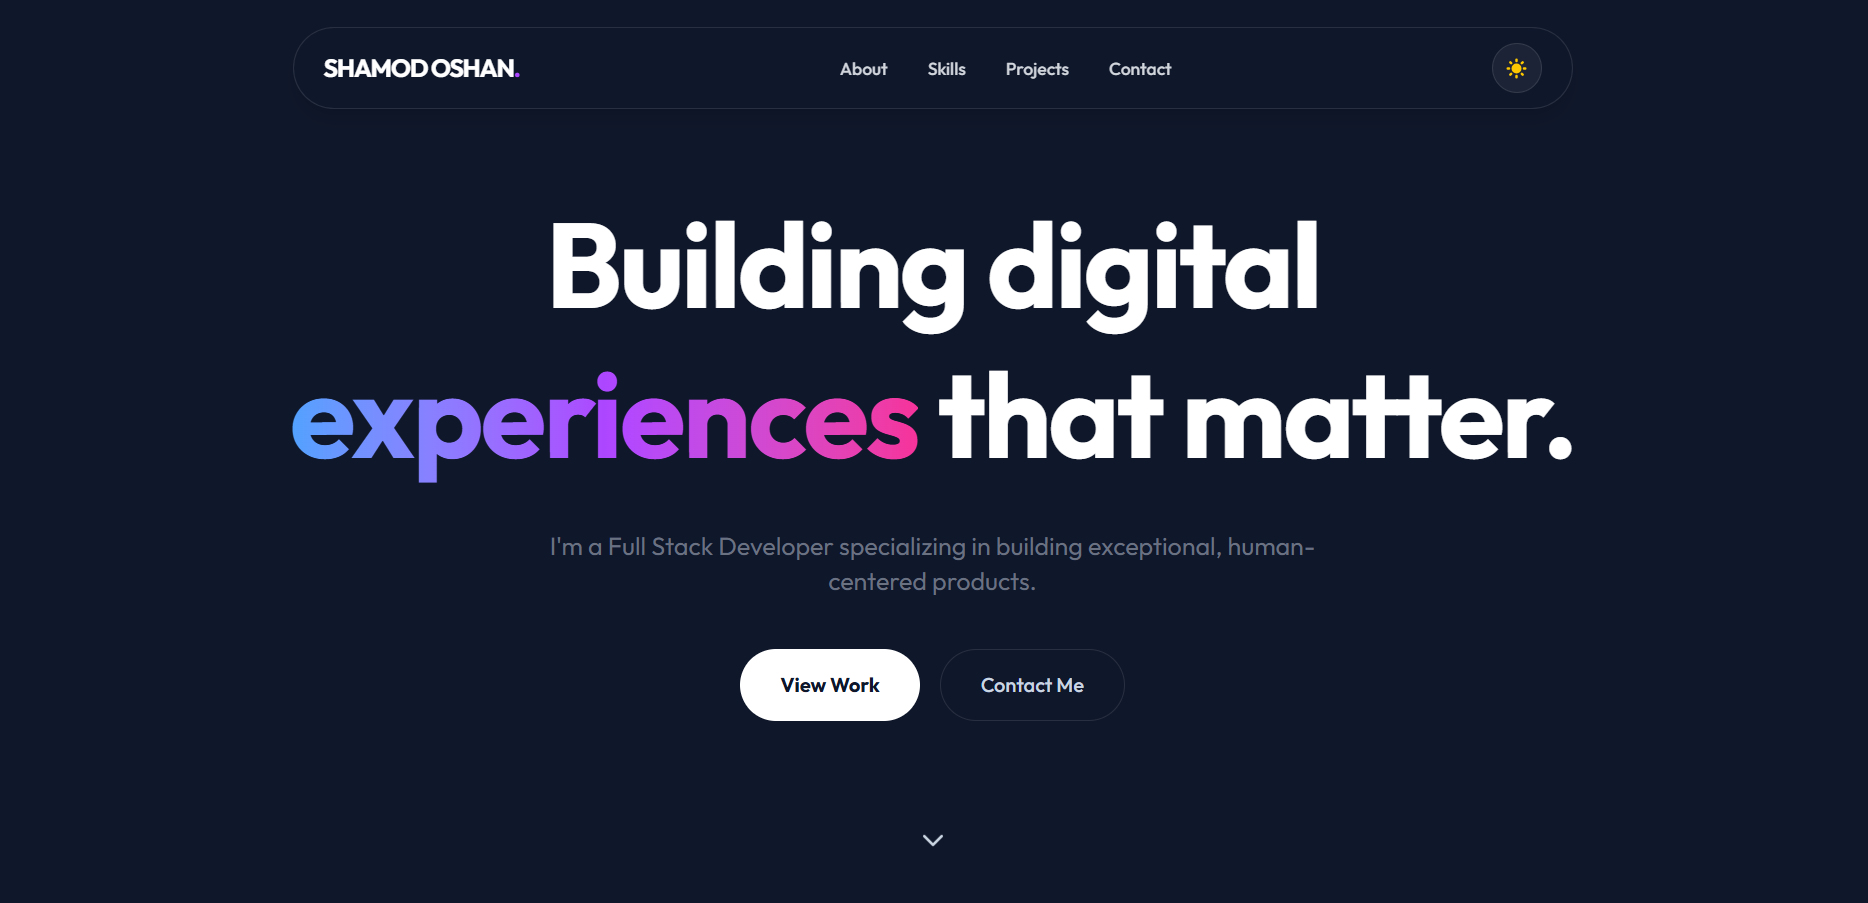
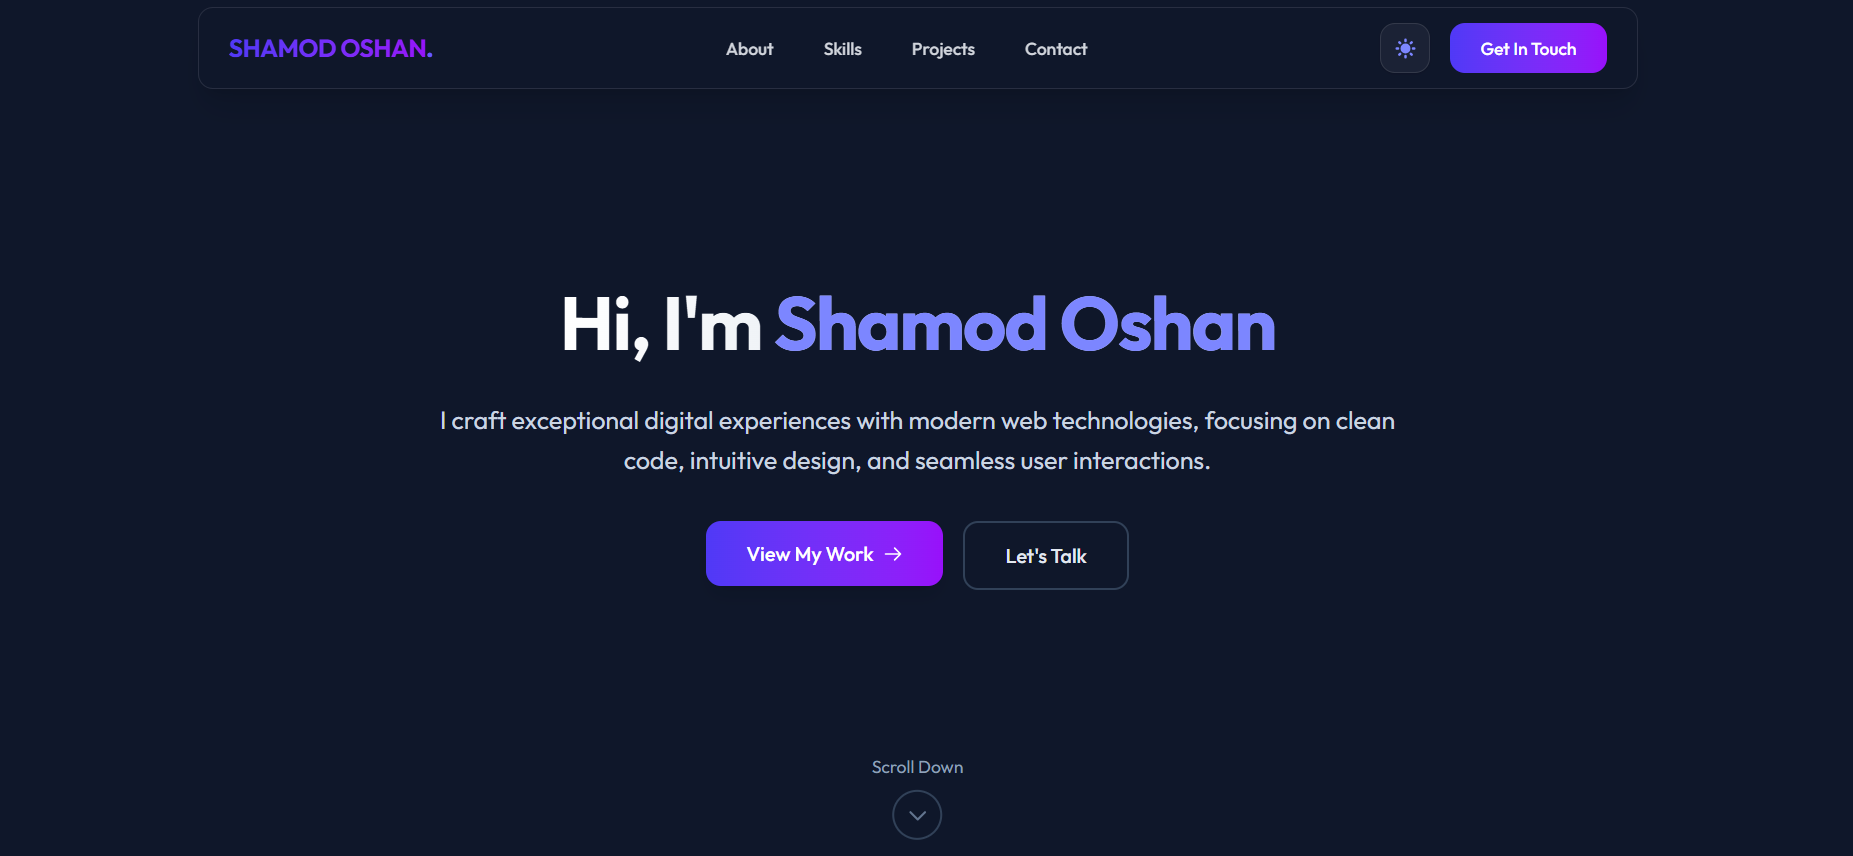
changed screenshot

diff --git a/src/App.jsx b/src/App.jsx
@@ -260,12 +260,12 @@ export default function App() {
             
             <div className="grid grid-cols-2 gap-4">
               <div className="bg-gradient-to-br from-blue-600 to-purple-600 p-6 rounded-2xl text-white shadow-lg">
-                <div className="text-4xl font-bold mb-1">10+</div>
+                <div className="text-4xl font-bold mb-1">3</div>
                 <div className="text-xs uppercase tracking-widest opacity-80">Projects</div>
               </div>
               <div className="bg-gradient-to-br from-purple-600 to-indigo-600 p-6 rounded-2xl text-white shadow-lg">
-                <div className="text-4xl font-bold mb-1">1+</div>
-                <div className="text-xs uppercase tracking-widest opacity-80">Years Experience</div>
+                <div className="text-4xl font-bold mb-1">8</div>
+                <div className="text-xs uppercase tracking-widest opacity-80">Months Experience</div>
               </div>
             </div>
           </div>
@@ -413,7 +413,7 @@ export default function App() {
           </a>
         </div>
         <div className="text-sm text-gray-500 dark:text-gray-400">
-          © 2025 Shamod Oshan. All rights reserved.
+          © 2026 Shamod Oshan. All rights reserved.
         </div>
       </footer>
     </div>

diff --git a/dist/index.html b/dist/index.html
@@ -9,12 +9,12 @@
   <link rel="preconnect" href="https://fonts.googleapis.com">
   <link rel="preconnect" href="https://fonts.gstatic.com" crossorigin>
   <link href="https://fonts.googleapis.com/css2?family=Outfit:wght@100..900&display=swap" rel="stylesheet">
-  <script type="module" crossorigin src="/shamod_oshan/assets/index-COXkT_D7.js"></script>
-  <link rel="stylesheet" crossorigin href="/shamod_oshan/assets/index-DnvXPXId.css">
+  <script type="module" crossorigin src="/portfolio/assets/index-CyzLMv9I.js"></script>
+  <link rel="stylesheet" crossorigin href="/portfolio/assets/index-DnvXPXId.css">
 </head>
 
 <body>
-  <div id="root"></div>
+  <div id="root"></div>
 </body>
 
 </html>

diff --git a/vite.config.js b/vite.config.js
@@ -1,12 +1,17 @@
-import { defineConfig } from 'vite'
+import { defineConfig, loadEnv } from 'vite'
 import react from '@vitejs/plugin-react'
 import tailwindcss from '@tailwindcss/vite'
 
 // https://vite.dev/config/
-export default defineConfig({
-  plugins: [
-    react(),
-    tailwindcss(),
-  ],
-  base: "/shamod_oshan",
-});
+export default defineConfig(({ mode }) => {
+  // Load env file based on `mode` in the current working directory.
+  const env = loadEnv(mode, process.cwd(), '')
+  
+  return {
+    plugins: [
+      react(),
+      tailwindcss(),
+    ],
+    base: env.NODE_ENV === 'production' ? '/portfolio/' : '/',
+  }
+})
